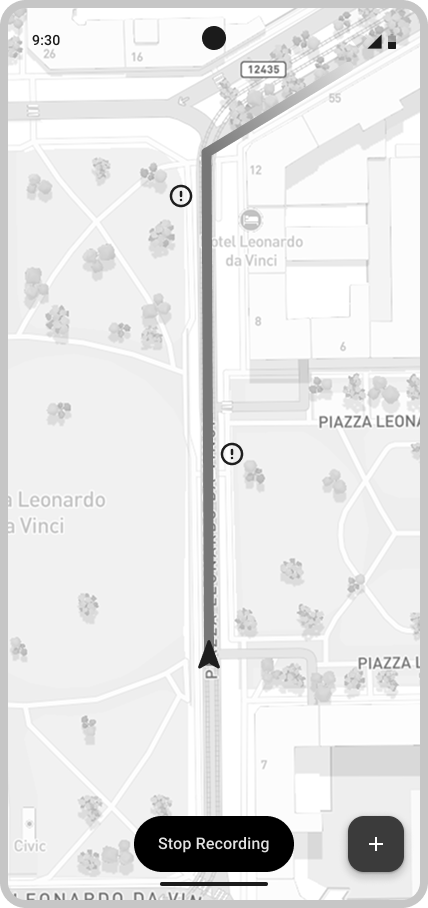
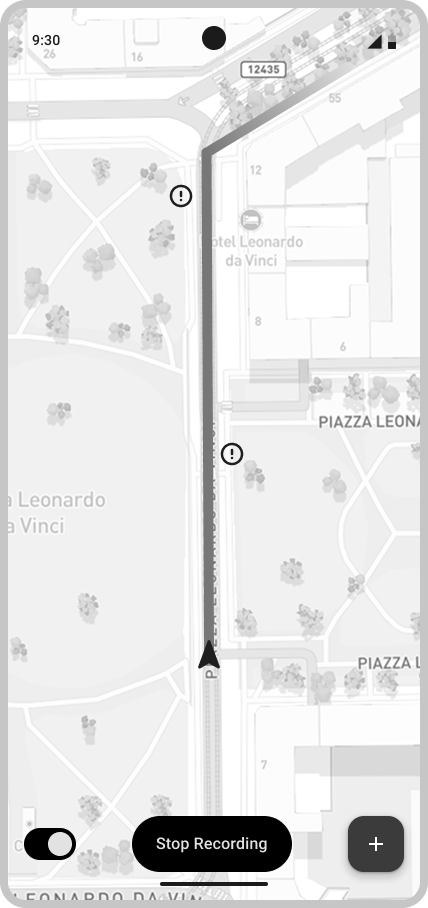
Fix(Section 3) Fix UI
Fixed the UI images and descriptions to account for some new functionalities, like the "planned trips"

diff --git a/RASD/source/sections/3_specific_requirements.tex b/RASD/source/sections/3_specific_requirements.tex
@@ -28,7 +28,7 @@ In this screen the user can sign in by entering e-mail and password, if already 
 \end{figure}
 
 \paragraph{Home Screen}
-In this screen the registered user can visualize his statistics and all his biking activities. By clicking on an activity, the user can see the details regarding that specific activity, like total distance, average speed, total time, elevation and weather conditions, and also the report of all obstacles encountered during his trip. In this screen the user can also delete the activity by clicking on the trash button (top right corner), after confirmation, or go back to the home page by clicking the back button (top left corner). This screen is reserved to \underline{registered users only}.
+In this screen the registered user can visualize his statistics, the trips he planned and all his biking activities. By clicking on a saved trip, the user can immediately start the navigation of the selected trip, as shown in figure \ref{fig:map_navigation}. By clicking on an activity, the user can see the details regarding that specific activity, like total distance, average speed, total time, elevation and weather conditions, and also the report of all obstacles encountered during his trip. In this screen the user can also delete the activity by clicking on the trash button (top right corner), after confirmation, or go back to the home page by clicking the back button (top left corner). This screen is reserved to \underline{registered users only}.
 
 \begin{figure}[H]
     \centering
@@ -60,7 +60,7 @@ In this screen the registered user can visualize his statistics and all his biki
 In this screen users can browse the map, visualize their current position on the map, by clicking the first button of the floating menu on the bottom left corner, and change the map orientation by clicking to the second button of the floating menu. By inserting a departure and destination point in the first and second input fields respectively, the user can see on the map different paths that lead from the departure point to the destination one. By clicking on a path, the user can see the major obstacles along the way signalled by other users and the score of every segment of the path coded in different colours. 
 
 The following is reserved to \underline{registered users only}.
-When clicking on a path, a floating action button on the bottom right corner appears, so the user can start biking the selected route. Once clicked, the floating action button reveals two options: manual or automatic mode, which let the user choose between manual and automatic insertion of path information respectively. Once an option has been clicked, the navigation starts. The user can stop the recording at any time by clicking on the "\textit{Stop Recording}" button, or add a new obstacle on his way by clicking the bottom right floating action button with the plus sign. 
+When clicking on a path, a switch appears under the input fields, allowing the user to activate automatic data acquisition when cycling. Also a floating action button on the bottom right corner appears, so the user can start biking the selected route. Once clicked, the floating action button reveals two options: "\textit{Save Trip}" or "\textit{Start Trip}", which let the user choose between saving the trip for later cycling sessions, or immediately starting the trip. By pressing the "\textit{Save Trip}" button, the user can visualize his trip in the home screen, shown in figure \ref{fig:home_screen}. By pressing the "\textit{Start Trip}", the user is taken to the navigation page, where he can stop the recording at any time by clicking on the "\textit{Stop Recording}" button, add a new obstacle on his way by clicking the bottom right floating action button with the plus sign. or switch between manual or automatic mode, by clicking the switch in the bottom left corner.
 
 \begin{figure}[H]
     \centering
@@ -191,8 +191,33 @@ The BBP system as well as gathering external weather and map information, must a
 \paragraph{Context Enrichment and Notifications}
 \begin{itemize}
     \item R20: The system shall notify registered users with planned trips when relevant weather conditions affecting the trip exceed a predefined severity threshold.
-    *modify class diagram with a new attribute severity of weatherInfo=combination of temperature, wind speed
-    \item R21: The system shall notify registered users with planned trips when obstacles along the associated path exceed a predefined severity threshold. 
-    *we assume that the attribute severity of obstacle is computed as combination of all the reports
+    \item R21: The system shall notify registered users with planned trips when obstacles along the associated path exceed a predefined severity threshold.
     \item R22: The system shall enrich recorded trips with meteorological information retrieved from an external weather service.
 \end{itemize}
+
+\subsubsection{Use Case Diagram}
+% INVIAMI PURE LA FOTO DEL DIAGRAMMA DA INSERIRE
+\subsubsection{Use Cases}
+
+\paragraph{UC1: } % MODIFICARE TITOLO USECASE
+
+\begin{table}[H]
+    \centering
+    \renewcommand{\arraystretch}{1.2}
+    \begin{tabular}{|l|p{0.75\textwidth}|}
+         \hline
+         Name & inserisci qui il testo (dopo \&)\\
+         \hline
+         Actors &  \\
+         \hline
+         Entry Condition &  \\
+         \hline
+         Event Flow &  \\
+         \hline
+         Exit Condition &  \\
+         \hline
+         Exception &  \\
+         \hline
+    \end{tabular}
+\end{table}
+
